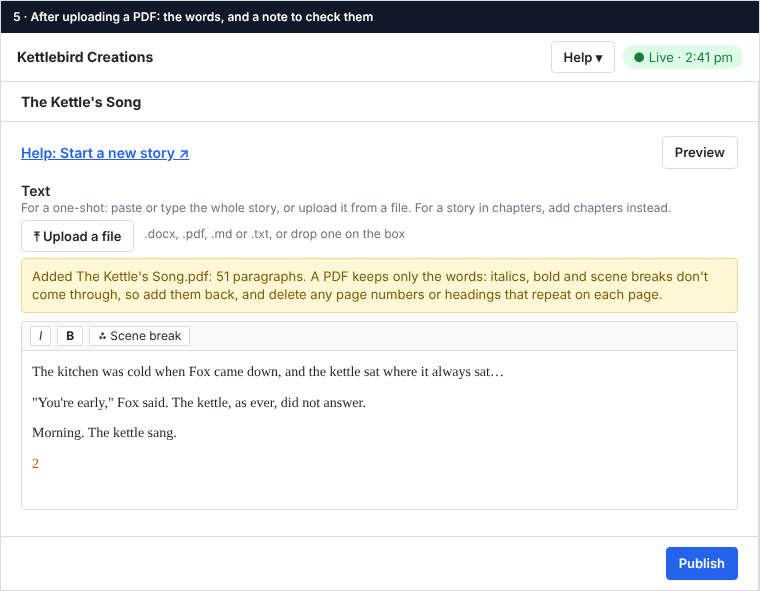
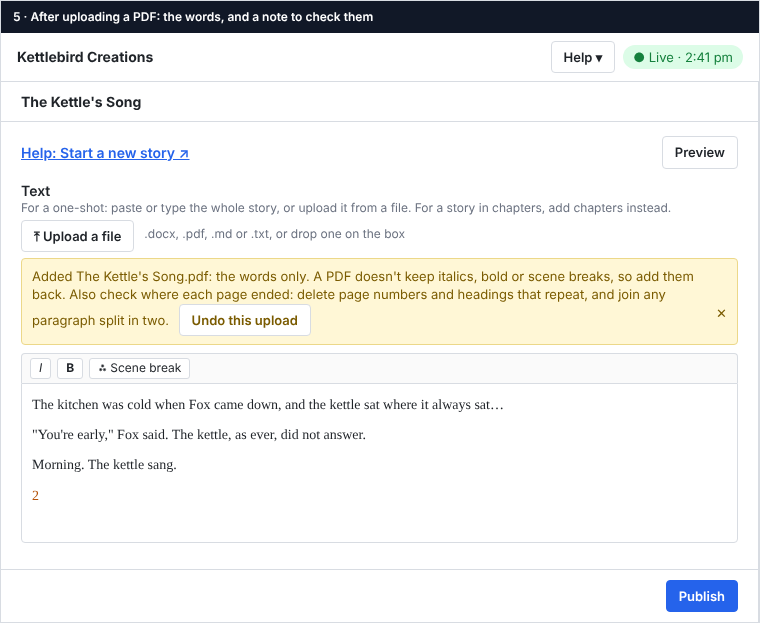
Design: writing from a file, with the walkthrough's findings
Claude-Session: https://claude.ai/code/session_01HWRLNSVAoX5Ni8d8XcwJh1

Changed region(s): [[0.0, 0.0, 0.9987, 0.7614], [0.0303, 0.8528, 0.9684, 0.8832], [0.8776, 0.9137, 0.9684, 0.9746]]

diff --git a/docs/design/mockups/story-import/mockups.html b/docs/design/mockups/story-import/mockups.html
@@ -85,12 +85,13 @@
 </head>
 <body>
 <div class="frame narrow" id="m1"><h6>1 · A one-shot's Text, empty: Upload a file above the box</h6><div class="top"><strong>Kettlebird Creations</strong><span><span class="ebtn">Help ▾</span> &nbsp;<span class="status">● Live · 2:41 pm</span></span></div><div class="wrap"><div class="doc"><div class="hd">The Kettle's Song</div><div class="bd"><div class="tl"><span class="hl">Help: Start a new story ↗</span><span class="ebtn">Preview</span></div><div class="f"><label>Rating<span class="req">Required</span></label><div class="in">◉ Teen</div></div><div class="f"><label>Text</label><p class="h">For a one-shot: paste or type the whole story, or upload it from a file. For a story in chapters, add chapters instead.</p><div class="up"><span class="ebtn">⤒ Upload a file</span><span class="h" style="color:var(--muted);font-size:12px">.docx, .pdf, .md or .txt, or drop one on the box</span></div><div class="tb"><span><em>I</em></span><span><strong>B</strong></span><span>⁂ Scene break</span></div><div class="pt"></div></div></div><div class="bar"><span class="ebtn primary">Publish</span></div></div></div></div>
-<div class="frame narrow" id="m2"><h6>2 · Dragging a file over the box</h6><div class="top"><strong>Kettlebird Creations</strong><span><span class="ebtn">Help ▾</span> &nbsp;<span class="status">● Live · 2:41 pm</span></span></div><div class="wrap"><div class="doc"><div class="hd">The Kettle's Song</div><div class="bd"><div class="tl"><span class="hl">Help: Start a new story ↗</span><span class="ebtn">Preview</span></div><div class="f"><label>Text</label><p class="h">For a one-shot: paste or type the whole story, or upload it from a file. For a story in chapters, add chapters instead.</p><div class="up"><span class="ebtn">⤒ Upload a file</span><span class="h" style="color:var(--muted);font-size:12px">.docx, .pdf, .md or .txt, or drop one on the box</span></div><div class="tb"><span><em>I</em></span><span><strong>B</strong></span><span>⁂ Scene break</span></div><div class="drop">Drop The Kettle's Song.docx to add its text</div></div></div><div class="bar"><span class="ebtn primary">Publish</span></div></div></div></div>
-<div class="frame narrow" id="m3"><h6>3 · After uploading a Word document: the text, and what came through</h6><div class="top"><strong>Kettlebird Creations</strong><span><span class="ebtn">Help ▾</span> &nbsp;<span class="status">● Live · 2:41 pm</span></span></div><div class="wrap"><div class="doc"><div class="hd">The Kettle's Song</div><div class="bd"><div class="tl"><span class="hl">Help: Start a new story ↗</span><span class="ebtn">Preview</span></div><div class="f"><label>Text</label><p class="h">For a one-shot: paste or type the whole story, or upload it from a file. For a story in chapters, add chapters instead.</p><div class="up"><span class="ebtn">⤒ Upload a file</span><span class="h" style="color:var(--muted);font-size:12px">.docx, .pdf, .md or .txt, or drop one on the box</span></div><div class="note" role="status">Added The Kettle's Song.docx: 48 paragraphs and 3 scene breaks. Its italics and bold came through. Read it through, then publish.</div><div class="tb"><span><em>I</em></span><span><strong>B</strong></span><span>⁂ Scene break</span></div><div class="pt"><p>The kitchen was cold when Fox came down, and the kettle sat where it always sat…</p><p>"You're early," Fox said. The kettle, <em>as ever</em>, did not answer.</p><div class="ptbrk">Scene break</div><p><strong>Morning.</strong> The kettle sang.</p></div></div></div><div class="bar"><span class="ebtn primary">Publish</span></div></div></div></div>
-<div class="frame narrow" id="m4"><h6>4 · Uploading into a box that already has text</h6><div class="top"><strong>Kettlebird Creations</strong><span><span class="ebtn">Help ▾</span> &nbsp;<span class="status">● Live · 2:41 pm</span></span></div><div class="wrap"><div class="doc"><div class="hd">The Kettle's Song</div><div class="bd"><div class="tl"><span class="hl">Help: Start a new story ↗</span><span class="ebtn">Preview</span></div><div class="f"><label>Text</label><p class="h">For a one-shot: paste or type the whole story, or upload it from a file. For a story in chapters, add chapters instead.</p><div class="up"><span class="ebtn">⤒ Upload a file</span><span class="h" style="color:var(--muted);font-size:12px">.docx, .pdf, .md or .txt, or drop one on the box</span></div><div class="tb"><span><em>I</em></span><span><strong>B</strong></span><span>⁂ Scene break</span></div><div class="pt"><p>The kitchen was cold when Fox came down, and the kettle sat where it always sat…</p><p>"You're early," Fox said. The kettle, <em>as ever</em>, did not answer.</p><div class="ptbrk">Scene break</div><p><strong>Morning.</strong> The kettle sang.</p></div></div></div><div class="bar"><span class="ebtn primary">Publish</span></div></div><div class="shade"></div><div class="dlg" role="dialog" aria-label="Text"><h3>This text box already has text</h3><p>Add The Long Road.docx after the text that's there, or replace it?</p><div class="row"><span class="ebtn">Cancel</span><span class="ebtn">Add at the end</span><span class="ebtn primary">Replace the text</span></div></div></div></div>
-<div class="frame narrow" id="m5"><h6>5 · After uploading a PDF: the words, and a note to check them</h6><div class="top"><strong>Kettlebird Creations</strong><span><span class="ebtn">Help ▾</span> &nbsp;<span class="status">● Live · 2:41 pm</span></span></div><div class="wrap"><div class="doc"><div class="hd">The Kettle's Song</div><div class="bd"><div class="tl"><span class="hl">Help: Start a new story ↗</span><span class="ebtn">Preview</span></div><div class="f"><label>Text</label><p class="h">For a one-shot: paste or type the whole story, or upload it from a file. For a story in chapters, add chapters instead.</p><div class="up"><span class="ebtn">⤒ Upload a file</span><span class="h" style="color:var(--muted);font-size:12px">.docx, .pdf, .md or .txt, or drop one on the box</span></div><div class="warn" role="status">Added The Kettle's Song.pdf: 51 paragraphs. A PDF keeps only the words: italics, bold and scene breaks don't come through, so add them back, and delete any page numbers or headings that repeat on each page.</div><div class="tb"><span><em>I</em></span><span><strong>B</strong></span><span>⁂ Scene break</span></div><div class="pt"><p>The kitchen was cold when Fox came down, and the kettle sat where it always sat…</p><p>"You're early," Fox said. The kettle, as ever, did not answer.</p><p>Morning. The kettle sang.</p><p style="color:#b45309">2</p></div></div></div><div class="bar"><span class="ebtn primary">Publish</span></div></div></div></div>
+<div class="frame narrow" id="m2"><h6>2 · Dragging a file over the box</h6><div class="top"><strong>Kettlebird Creations</strong><span><span class="ebtn">Help ▾</span> &nbsp;<span class="status">● Live · 2:41 pm</span></span></div><div class="wrap"><div class="doc"><div class="hd">The Kettle's Song</div><div class="bd"><div class="tl"><span class="hl">Help: Start a new story ↗</span><span class="ebtn">Preview</span></div><div class="f"><label>Text</label><p class="h">For a one-shot: paste or type the whole story, or upload it from a file. For a story in chapters, add chapters instead.</p><div class="up"><span class="ebtn">⤒ Upload a file</span><span class="h" style="color:var(--muted);font-size:12px">.docx, .pdf, .md or .txt, or drop one on the box</span></div><div class="tb"><span><em>I</em></span><span><strong>B</strong></span><span>⁂ Scene break</span></div><div class="drop">Drop the file here to add its text</div></div></div><div class="bar"><span class="ebtn primary">Publish</span></div></div></div></div>
+<div class="frame narrow" id="m3"><h6>3 · After uploading a Word document: the text, and what came through</h6><div class="top"><strong>Kettlebird Creations</strong><span><span class="ebtn">Help ▾</span> &nbsp;<span class="status">● Live · 2:41 pm</span></span></div><div class="wrap"><div class="doc"><div class="hd">The Kettle's Song</div><div class="bd"><div class="tl"><span class="hl">Help: Start a new story ↗</span><span class="ebtn">Preview</span></div><div class="f"><label>Text</label><p class="h">For a one-shot: paste or type the whole story, or upload it from a file. For a story in chapters, add chapters instead.</p><div class="up"><span class="ebtn">⤒ Upload a file</span><span class="h" style="color:var(--muted);font-size:12px">.docx, .pdf, .md or .txt, or drop one on the box</span></div><div class="note" role="status">Added The Kettle's Song.docx: 48 paragraphs and 3 scene breaks, with its italics and bold. Left out: 2 pictures. 1 heading came in as a plain paragraph. Read it through, then publish. <span class="ebtn" style="margin-left:6px">Undo this upload</span> <span style="float:right;color:var(--muted)">✕</span></div><div class="tb"><span><em>I</em></span><span><strong>B</strong></span><span>⁂ Scene break</span></div><div class="pt"><p>The kitchen was cold when Fox came down, and the kettle sat where it always sat…</p><p>"You're early," Fox said. The kettle, <em>as ever</em>, did not answer.</p><div class="ptbrk">Scene break</div><p><strong>Morning.</strong> The kettle sang.</p></div></div></div><div class="bar"><span class="ebtn primary">Publish</span></div></div></div></div>
+<div class="frame narrow" id="m4"><h6>4 · Uploading into a box that already has text</h6><div class="top"><strong>Kettlebird Creations</strong><span><span class="ebtn">Help ▾</span> &nbsp;<span class="status">● Live · 2:41 pm</span></span></div><div class="wrap"><div class="doc"><div class="hd">The Kettle's Song</div><div class="bd"><div class="tl"><span class="hl">Help: Start a new story ↗</span><span class="ebtn">Preview</span></div><div class="f"><label>Text</label><p class="h">For a one-shot: paste or type the whole story, or upload it from a file. For a story in chapters, add chapters instead.</p><div class="up"><span class="ebtn">⤒ Upload a file</span><span class="h" style="color:var(--muted);font-size:12px">.docx, .pdf, .md or .txt, or drop one on the box</span></div><div class="tb"><span><em>I</em></span><span><strong>B</strong></span><span>⁂ Scene break</span></div><div class="pt"><p>The kitchen was cold when Fox came down, and the kettle sat where it always sat…</p><p>"You're early," Fox said. The kettle, <em>as ever</em>, did not answer.</p><div class="ptbrk">Scene break</div><p><strong>Morning.</strong> The kettle sang.</p></div></div></div><div class="bar"><span class="ebtn primary">Publish</span></div></div><div class="shade"></div><div class="dlg" role="dialog" aria-label="Text"><h3>This text box already has text</h3><p>It has 48 paragraphs. Add The Kettle's Song (new).docx after them, or replace them with it?</p><div class="row"><span class="ebtn" style="outline:2px solid var(--accent);outline-offset:2px">Cancel</span><span class="ebtn">Add at the end</span><span class="ebtn">Replace the text</span></div></div></div></div>
+<div class="frame narrow" id="m5"><h6>5 · After uploading a PDF: the words, and a note to check them</h6><div class="top"><strong>Kettlebird Creations</strong><span><span class="ebtn">Help ▾</span> &nbsp;<span class="status">● Live · 2:41 pm</span></span></div><div class="wrap"><div class="doc"><div class="hd">The Kettle's Song</div><div class="bd"><div class="tl"><span class="hl">Help: Start a new story ↗</span><span class="ebtn">Preview</span></div><div class="f"><label>Text</label><p class="h">For a one-shot: paste or type the whole story, or upload it from a file. For a story in chapters, add chapters instead.</p><div class="up"><span class="ebtn">⤒ Upload a file</span><span class="h" style="color:var(--muted);font-size:12px">.docx, .pdf, .md or .txt, or drop one on the box</span></div><div class="warn" role="status">Added The Kettle's Song.pdf: the words only. A PDF doesn't keep italics, bold or scene breaks, so add them back. Also check where each page ended: delete page numbers and headings that repeat, and join any paragraph split in two. <span class="ebtn" style="margin-left:6px">Undo this upload</span> <span style="float:right;color:#7a5b00">✕</span></div><div class="tb"><span><em>I</em></span><span><strong>B</strong></span><span>⁂ Scene break</span></div><div class="pt"><p>The kitchen was cold when Fox came down, and the kettle sat where it always sat…</p><p>"You're early," Fox said. The kettle, as ever, did not answer.</p><p>Morning. The kettle sang.</p><p style="color:#b45309">2</p></div></div></div><div class="bar"><span class="ebtn primary">Publish</span></div></div></div></div>
 <div class="frame narrow" id="m6"><h6>6 · A chapter's Text: the same button</h6><div class="top"><strong>Kettlebird Creations</strong><span><span class="ebtn">Help ▾</span> &nbsp;<span class="status">● Live · 2:41 pm</span></span></div><div class="wrap"><div class="doc"><div class="hd">The Long Road · Chapter 3</div><div class="bd"><div class="tl"><span class="hl">Help: Add a chapter to a story ↗</span><span class="ebtn">Preview</span></div><div class="f"><label>Chapter<span class="req">Required</span></label><div class="in">3</div></div><div class="f"><label>Text<span class="req">Required</span></label><p class="h">Paste or type the chapter, or upload it from a file.</p><div class="up"><span class="ebtn">⤒ Upload a file</span><span class="h" style="color:var(--muted);font-size:12px">.docx, .pdf, .md or .txt, or drop one on the box</span></div><div class="tb"><span><em>I</em></span><span><strong>B</strong></span><span>⁂ Scene break</span></div><div class="pt"></div></div></div><div class="bar"><span class="ebtn primary">Publish</span></div></div></div></div>
-<div class="frame narrow" id="m7"><h6>7 · What it says when a file can't be added (one at a time, above the box)</h6><div class="top"><strong>Kettlebird Creations</strong><span><span class="ebtn">Help ▾</span> &nbsp;<span class="status">● Live · 2:41 pm</span></span></div><div class="wrap"><div class="doc"><div class="hd">The Kettle's Song</div><div class="bd"><div class="tl"><span class="hl">Help: Start a new story ↗</span><span class="ebtn">Preview</span></div><div class="f"><label>Text</label><p class="h">For a one-shot: paste or type the whole story, or upload it from a file. For a story in chapters, add chapters instead.</p><div class="up"><span class="ebtn">⤒ Upload a file</span><span class="h" style="color:var(--muted);font-size:12px">.docx, .pdf, .md or .txt, or drop one on the box</span></div><div class="err" role="alert">The Kettle's Song.doc can't be read here. Open it in Word or Google Docs, save or download it as .docx, and upload that.</div><div class="err" role="alert">The Kettle's Song.pdf has no words in it, only pictures of pages (it was probably scanned). Upload the document it was made from instead.</div><div class="err" role="alert">The Kettle's Song.pdf is locked with a password. Upload an unlocked copy, or the document it was made from.</div><div class="err" role="alert">Draft.docx is empty, so nothing was added.</div><div class="err" role="alert">The Kettle's Song.docx is over 20 MB, too big to read here. If it has pictures in it, save a copy without them.</div><div class="err" role="alert">Something went wrong reading Notes.md, and nothing was added. Try again, or paste the text instead.</div><div class="tb"><span><em>I</em></span><span><strong>B</strong></span><span>⁂ Scene break</span></div><div class="pt"></div></div></div><div class="bar"><span class="ebtn primary">Publish</span></div></div></div></div>
+<div class="frame narrow" id="m7"><h6>7 · What it says when a file can't be added (one at a time, above the box; each replaces the last)</h6><div class="top"><strong>Kettlebird Creations</strong><span><span class="ebtn">Help ▾</span> &nbsp;<span class="status">● Live · 2:41 pm</span></span></div><div class="wrap"><div class="doc"><div class="hd">The Kettle's Song</div><div class="bd"><div class="tl"><span class="hl">Help: Start a new story ↗</span><span class="ebtn">Preview</span></div><div class="f"><label>Text</label><p class="h">For a one-shot: paste or type the whole story, or upload it from a file. For a story in chapters, add chapters instead.</p><div class="up"><span class="ebtn">⤒ Upload a file</span><span class="h" style="color:var(--muted);font-size:12px">.docx, .pdf, .md or .txt, or drop one on the box</span></div><div class="err" role="alert">The Kettle's Song.doc is an older Word file, which can't be read here. Open it in Word or Google Docs, save or download it as .docx, and upload that.</div><div class="err" role="alert">The Kettle's Song.gdoc is a link to a Google Doc, not the document. In Google Docs, choose File, Download, Microsoft Word (.docx), and upload that.</div><div class="err" role="alert">The Kettle's Song.pages can't be read here. In Pages, choose File, Export To, Word, and upload that.</div><div class="err" role="alert">The Kettle's Song.epub can't be read here. Open it, copy the text, and paste it into the box.</div><div class="err" role="alert">Fox sketch.png is a picture, not writing.</div><div class="err" role="alert">The Kettle's Song.pdf has no words in it, only pictures of pages (it was probably scanned). Upload the document it was made from instead.</div><div class="err" role="alert">The Kettle's Song.pdf is locked with a password. Upload an unlocked copy, or the document it was made from.</div><div class="err" role="alert">Draft.docx has no words in it, so nothing was added.</div><div class="err" role="alert">The Kettle's Song.docx is over 20 MB, too big to read here. Save a copy without its pictures, or upload the chapter on its own.</div><div class="err" role="alert">Something went wrong reading Notes.md, and nothing was added. Try again, or paste the text instead.</div><div class="tb"><span><em>I</em></span><span><strong>B</strong></span><span>⁂ Scene break</span></div><div class="pt"></div></div></div><div class="bar"><span class="ebtn primary">Publish</span></div></div></div></div>
 
+<div class="frame narrow" id="m8"><h6>8 · Reading a long file</h6><div class="top"><strong>Kettlebird Creations</strong><span><span class="ebtn">Help ▾</span> &nbsp;<span class="status">● Live · 2:41 pm</span></span></div><div class="wrap"><div class="doc"><div class="hd">The Kettle's Song</div><div class="bd"><div class="tl"><span class="hl">Help: Start a new story ↗</span><span class="ebtn">Preview</span></div><div class="f"><label>Text</label><p class="h">For a one-shot: paste or type the whole story, or upload it from a file. For a story in chapters, add chapters instead.</p><div class="up"><span class="ebtn" style="opacity:.5">⤒ Upload a file</span><span class="h" style="color:var(--muted);font-size:12px">.docx, .pdf, .md or .txt, or drop one on the box</span></div><div class="note" role="status">Reading The Kettle's Song.docx…</div><div class="tb"><span><em>I</em></span><span><strong>B</strong></span><span>⁂ Scene break</span></div><div class="pt" style="opacity:.6"></div></div></div><div class="bar"><span class="ebtn primary">Publish</span></div></div></div></div>
 </body>
 </html>

diff --git a/docs/design/story-import.md b/docs/design/story-import.md
@@ -17,42 +17,53 @@ style of the story reader's editor mock-ups) and render.mjs. -->
 
 ## Personas
 
-- persona-artist: Star writes in documents (Word, Google Docs, and plain text or Markdown files), and today copies each story or chapter and pastes it into **Text** (design-story-reader, "Flow: Star"). A long story is slow to select and copy, and a copy can miss the end. Uploading the file puts the whole of it in at once, by the same rules as a paste.
+- persona-artist: Star writes in documents (the story names Google Docs and Word; plain text and Markdown files are the lead's request), and today copies each story or chapter and pastes it into **Text** (design-story-reader, "Flow: Star"). A long story is slow to select and copy, and a copy can miss the end. Uploading the file puts the whole of it in at once, by the same rules as a paste where the file allows.
 
 ## The change
 
 This amends design-story-reader, "What Star enters" and "Flow: Star": **Text** on a one-shot and on a chapter can be filled from a file as well as by pasting or typing.
 
 **Upload a file** (mock-ups 1, 2 and 6):
-- Above each **Text** box, a button, **Upload a file**, with ".docx, .pdf, .md or .txt, or drop one on the box" beside it. Dropping a file on the box does the same; while one is dragged over, the box says "Drop The Kettle's Song.docx to add its text" (mock-up 2).
+- Above each **Text** box, a button, **Upload a file**, with ".docx, .pdf, .md or .txt, or drop one on the box" beside it. Dropping a file on the box does the same; while one is dragged over, the box says "Drop the file here to add its text" (mock-up 2; a browser doesn't give a dragged file's name until it's dropped). The guide says to drop it on the box: dropped anywhere else, the browser may open it instead.
 - **Text**'s help text gains "or upload it from a file": "For a one-shot: paste or type the whole story, or upload it from a file. For a story in chapters, add chapters instead." On a chapter: "Paste or type the chapter, or upload it from a file."
-- On a story with chapters, where **Text** shows only its note (design-story-reader, mock-up 7), there's no button: chapters are where the text goes.
-- One file at a time; one file fills one **Text** box. A whole book in one file goes in chapter by chapter, as pasting does today (Decisions at review, 1).
+- On a story with chapters, where **Text** shows its note (design-story-reader, mock-up 7), there's no button: chapters are where the text goes. Text left in such a story stays visible, as now, to move into a chapter.
+- One file at a time; one file fills one **Text** box. A file can't be selected from as a paste can, so for a whole book in one file the guide gives a recipe: upload it into a one-shot's **Text**, choose **Add chapter** (which moves the text into Chapter 1), then cut each later chapter out and paste it into a new chapter. The book's own title and chapter headings come in as plain paragraphs, to delete (Decisions at review, 1, would make this a split instead).
+- While a file is read, the note says "Reading The Kettle's Song.docx…" and the button waits; nothing else can be uploaded into that box until it's done (mock-up 8).
 
 **What comes through** is what a paste brings, by the same rules (design-story-reader, "What Star enters"; Star's guide, "Paste your text"):
-- **.docx** (Word, and Google Docs' File, Download, Microsoft Word): paragraphs, *italics* and **bold**; a horizontal line, a line of only symbols such as `* * *`, or a gap of two or more empty lines becomes a **Scene break**. Headings and tables come through as plain paragraphs of their text; pictures, comments and tracked changes' deleted text are left out.
-- **.md** (Markdown): paragraphs, `*italics*` or `_italics_`, `**bold**`; a `---`, `***` or `* * *` line becomes a scene break. Headings, lists and quotes come through as plain paragraphs of their text; links keep their words only.
-- **.txt**: each line, or each paragraph between empty lines, becomes a paragraph; scene break lines and gaps as above. No italics or bold: plain text has none.
-- **.pdf**: the words only, in paragraphs worked out from the gaps between lines. Italics, bold and scene breaks don't come through, and page numbers or headings repeated on each page may come in with the text (mock-up 5). Words broken across lines with a hyphen are joined.
+- A **scene break** comes from what the paste rules already know (`isSceneBreakLine` in `lib/stories.ts`): a line of three or more of `* ~ - # = • ·` (such as `* * *`, `***`, `---`, `~~~`), a line of only `~`, `#` or `⁂`, or a gap of two or more empty paragraphs. A document double-spaced with empty paragraphs gets a scene break between every paragraph, as a paste does; the note's count shows it.
+- **.docx** (Word, and Google Docs' File, Download, Microsoft Word): paragraphs, *italics* and **bold**, and scene breaks as above. Word's drawn horizontal line (Insert, Horizontal Line, or a paragraph with only a bottom border) is turned into a scene break by the site's own rule, since the Word reader leaves it out; the spec proves it with files from Word and from Google Docs. Line breaks within a paragraph (Shift+Enter, in poems and letters) are kept, as when pasted. Headings and tables come in as plain paragraphs of their text; footnotes come at the end as plain paragraphs; pictures, text boxes and comments are left out, and the note counts what was. Tracked changes come in as if accepted, and the note says so (see below).
+- **.md** (Markdown) is read as Markdown: paragraphs, `*italics*` or `_italics_`, `**bold**`, and scene break lines with an empty line before them (a `---` straight under a line of text makes that line a Markdown heading, which comes in as a plain paragraph). Empty lines don't add up in Markdown, so gaps don't make scene breaks. Headings come in as plain paragraphs; a line starting with `- ` or `> ` is a Markdown list or quote, and loses its `- ` or `>`; links keep their words only.
+- **.txt**: when the file has an empty line between its paragraphs, the lines of each paragraph are joined into one (so a file wrapped at a fixed width reads as paragraphs); otherwise each line is a paragraph, as a paste of plain text is. Scene breaks as above. No italics or bold: plain text has none.
+- **.txt and .md** are read as UTF-8, or as Windows' own encoding when they aren't UTF-8, so curly quotes and dashes from older Notepad files come through.
+- **.pdf**: the words only, in paragraphs worked out from the gaps between lines. Italics, bold and scene breaks don't come through; page numbers and headings repeated on each page come in with the text, and a paragraph that runs over a page is split in two (mock-up 5). A word broken across lines keeps its hyphen ("beau-tiful"), since joining would also join real compounds ("well-known"); the note says to check.
 
 **After a file is added** (mock-ups 3 and 5):
-- The text appears in the box, and a note above it says what came in: "Added The Kettle's Song.docx: 48 paragraphs and 3 scene breaks. Its italics and bold came through. Read it through, then publish."
-- For a PDF the note says what to check: "Added The Kettle's Song.pdf: 51 paragraphs. A PDF keeps only the words: italics, bold and scene breaks don't come through, so add them back, and delete any page numbers or headings that repeat on each page."
-- For a .txt: "Added Notes.txt: 12 paragraphs and 1 scene break." (plain text has no italics to mention).
-- The note stays until the text is edited or the item is published. Nothing goes live until Star publishes, as with a paste; **Preview** shows it first.
+- The text appears in the box, focus goes to the box at the end of the added text, and a note above it says what came in and what didn't:
+  - .docx: "Added The Kettle's Song.docx: 48 paragraphs and 3 scene breaks, with its italics and bold. Left out: 2 pictures. 1 heading came in as a plain paragraph. Read it through, then publish." The second and third sentences name only what the file had (pictures, text boxes, comments; headings, tables, footnotes). With tracked changes or Google Docs suggestions: "It had tracked changes, and they came in as if accepted: check them, or accept or reject them in the document first and upload it again."
+  - .md: "Added Notes.md: 12 paragraphs and 1 scene break, with its italics and bold."
+  - .txt: "Added Notes.txt: 12 paragraphs and 1 scene break."
+  - .pdf: "Added The Kettle's Song.pdf: the words only. A PDF doesn't keep italics, bold or scene breaks, so add them back. Also check where each page ended: delete page numbers and headings that repeat, and join any paragraph split in two." (no count, which would include page numbers and split halves.)
+- The note has **Undo this upload**, which puts the box back as it was before the file came in, and ✕ to close it. It stays until it's closed or the item is published, so a PDF's checklist stays while Star works through it; **Undo this upload** goes once the text has been edited after the upload. Nothing goes live until Star publishes, as with a paste; **Preview** shows it first.
 
-**When the box already has text** (mock-up 4): a dialog, "This text box already has text. Add The Long Road.docx after the text that's there, or replace it?", with **Cancel**, **Add at the end** and **Replace the text** (focused first, being what an upload is usually for, and undoable). An empty box is filled with no question.
+**When the box already has text** (mock-up 4): a dialog, "This text box already has text. It has 48 paragraphs. Add The Kettle's Song (new).docx after them, or replace them with it?", with **Cancel** (focused first, so Enter by habit changes nothing), **Add at the end** and **Replace the text**. **Add at the end** adds no scene break between the old and new text; Star adds one if wanted. The note counts only what the file added. A box with nothing but empty paragraphs counts as empty, and is filled with no question.
 
-**Undo**: the editor's own undo (Ctrl+Z or ⌘Z, or the document's history) takes the added text back out, as for a paste.
+**Undo**: **Undo this upload** in the note, or the editor's own undo (Ctrl+Z or ⌘Z) with focus in the box, takes the upload back out as one step; the document's history has it too.
 
-**When a file can't be added** (mock-up 7), a message above the box says why and what to do, and the box is left as it was:
-- another kind of file (an older Word .doc, Pages, .rtf, .odt, a picture): "The Kettle's Song.doc can't be read here. Open it in Word or Google Docs, save or download it as .docx, and upload that."
+**When a file can't be added** (mock-up 7), a message above the box says why and what to do, and the box is left as it was. A new message replaces the last one:
+- an older Word file (.doc), .rtf or .odt: "The Kettle's Song.doc is an older Word file, which can't be read here. Open it in Word or Google Docs, save or download it as .docx, and upload that." (.rtf and .odt: "…is a … file, which can't be read here…", the same steps.)
+- a Google Drive shortcut (.gdoc): "The Kettle's Song.gdoc is a link to a Google Doc, not the document. In Google Docs, choose File, Download, Microsoft Word (.docx), and upload that."
+- a Pages file: "The Kettle's Song.pages can't be read here. In Pages, choose File, Export To, Word, and upload that."
+- a web page or e-book (.html, .epub, as AO3 downloads are): "The Kettle's Song.epub can't be read here. Open it, copy the text, and paste it into the box."
+- a picture: "Fox sketch.png is a picture, not writing."
+- any other kind of file: "The Kettle's Song.xyz can't be read here. Upload a .docx, .pdf, .md or .txt file, or paste the text."
 - a PDF of scanned pages, with no words in it: "The Kettle's Song.pdf has no words in it, only pictures of pages (it was probably scanned). Upload the document it was made from instead."
 - a locked PDF: "The Kettle's Song.pdf is locked with a password. Upload an unlocked copy, or the document it was made from."
-- an empty file, or one with only pictures: "Draft.docx is empty, so nothing was added."
-- a file over 20 MB: "The Kettle's Song.docx is over 20 MB, too big to read here. If it has pictures in it, save a copy without them."
+- a file with no words: "Draft.docx has no words in it, so nothing was added."
+- a file over 20 MB: "The Kettle's Song.docx is over 20 MB, too big to read here. Save a copy without its pictures, or upload the chapter on its own." (for a PDF: "…too big to read here. Upload the document it was made from, or the chapter on its own.")
 - anything else going wrong: "Something went wrong reading Notes.md, and nothing was added. Try again, or paste the text instead."
-- more than one file dropped at once: only the first is added, and the note says "Only one file at a time: added The Kettle's Song.docx."
+- more than one file dropped at once: only the first is added, and the note begins "Only one file at a time: added The Kettle's Song.docx."
+- The file chooser lists .docx, .pdf, .md and .txt files; the messages above mostly come from dropped files.
 
 **Where the file goes**: it's read in Star's browser and only its text is kept, in **Text**, as a paste is. The file itself isn't uploaded or stored anywhere.
 
@@ -60,10 +71,10 @@ This amends design-story-reader, "What Star enters" and "Flow: Star": **Text** o
 
 | # | Where | After |
 |---|---|---|
-| 1 | A story's and a chapter's **Text** (`sanity-studio/components/StoryTextInput.tsx`) | **Upload a file**, dropping a file on the box, the replace or add dialog, the notes and messages above the box. |
+| 1 | A story's and a chapter's **Text** (`sanity-studio/components/StoryTextInput.tsx`) | **Upload a file**, dropping a file on the box, reading, the replace or add dialog, the notes (a status message, with **Undo this upload** and ✕) and messages (an alert) above the box. Today the input only handles a paste; the spec confirms how Sanity Studio's editor takes text from outside it as one undo step. |
 | 2 | The paste rules (`sanity-studio/lib/story-paste.ts`, `lib/stories.ts`) | Each kind of file turned into the HTML the paste rules already read: .docx by a Word reader, .md by a Markdown reader, .txt as a paste of plain text is, .pdf by a PDF reader's words and line gaps; then the same clean-up as a paste. The readers load only when a file is chosen, so the editor isn't slower to open. |
 | 3 | **Text**'s help text (`sanity-studio/lib/stories.ts` or the schema) | "or upload it from a file". |
-| 4 | Star's guide `publishing-stories.md` | "Upload a file" beside "Paste your text" (For the guide). |
+| 4 | Star's guide `publishing-stories.md` | "Upload a file", and the passages that say pasting is the only way (For the guide). |
 
 ## Mock-ups
 
@@ -72,12 +83,13 @@ Low-fidelity, in the style of the story reader's editor mock-ups. Source: `mocku
 | # | What it shows | File |
 |---|---|---|
 | 1 | A one-shot's **Text**, empty, with **Upload a file** above the box | `mockups/story-import/1-upload-button.png` |
-| 2 | A file dragged over the box | `mockups/story-import/2-drop.png` |
-| 3 | After a Word document: the text, and the note saying what came through | `mockups/story-import/3-after-docx.png` |
-| 4 | Uploading into a box that already has text: **Cancel**, **Add at the end**, **Replace the text** | `mockups/story-import/4-replace-or-add.png` |
+| 2 | A file dragged over the box: "Drop the file here to add its text" | `mockups/story-import/2-drop.png` |
+| 3 | After a Word document: the text, and the note saying what came in and what was left out, with **Undo this upload** | `mockups/story-import/3-after-docx.png` |
+| 4 | Uploading into a box that already has text: how much is there; **Cancel** (focused), **Add at the end**, **Replace the text** | `mockups/story-import/4-replace-or-add.png` |
 | 5 | After a PDF: the words, and the note saying what to check | `mockups/story-import/5-after-pdf.png` |
 | 6 | A chapter's **Text**, with the same button | `mockups/story-import/6-chapter.png` |
-| 7 | The messages when a file can't be added | `mockups/story-import/7-errors.png` |
+| 7 | The messages when a file can't be added, each for its kind of file | `mockups/story-import/7-errors.png` |
+| 8 | Reading a long file | `mockups/story-import/8-reading.png` |
 
 ## States and errors
 
@@ -87,36 +99,46 @@ Low-fidelity, in the style of the story reader's editor mock-ups. Source: `mocku
 | **Text** with text in it | The dialog: **Add at the end**, **Replace the text**, or **Cancel** (nothing changes). |
 | A story with chapters | No **Upload a file** on the story's **Text**; each chapter has its own. |
 | .docx, .md, .txt | Paragraphs and scene breaks; italics and bold from .docx and .md. |
-| .pdf with words | The words in paragraphs; a note to add back italics, bold and scene breaks. |
-| .pdf of scanned pages, a locked .pdf, another kind of file, an empty file, over 20 MB, an error | A message above the box saying why and what to do; the box unchanged. |
+| .pdf with words | The words in paragraphs; a note to add back italics, bold and scene breaks, and to check page ends. |
+| A .docx with tracked changes | In as if accepted; the note says so. |
+| A file being read | "Reading …"; the button waits. |
+| .pdf of scanned pages, a locked .pdf, another kind of file, a file with no words, over 20 MB, an error | A message above the box saying why and what to do, for that kind of file; the box unchanged. |
 | More than one file dropped | The first is added; the note says only one at a time. |
-| A mistake | The editor's undo takes it back out. |
+| A mistake | **Undo this upload**, or Ctrl+Z in the box, takes it back out. |
 
 ## Accessibility
 
 - **Upload a file** is a button reached with Tab and opened with Enter or Space; it opens the computer's own file chooser, so it works with a keyboard and a screen reader. Dropping a file is an extra, never the only way.
 - The note after a file is added is a status message, read out by a screen reader; an error is an alert.
-- The dialog is a modal dialog with its question as its name; focus starts on **Replace the text**, Escape is **Cancel**, and focus returns to **Upload a file** when it closes.
+- The dialog is a modal dialog with its question as its name; focus starts on **Cancel**, Escape is **Cancel**; after **Cancel** focus returns to **Upload a file**, and after adding or replacing it goes into the box, so Ctrl+Z works there.
+- "Reading …" is a status message too, and the button is disabled, not hidden, while a file is read.
 - The added text is ordinary text in the box, editable as a paste is.
 
 ## For the guide
 
-Star's guide `publishing-stories.md`, after "Paste your text", a section "Upload a file":
-- choose **Upload a file** above **Text**, or drop a file on the box; .docx, .pdf, .md or .txt;
-- from Google Docs: File, Download, Microsoft Word (.docx), then upload that;
-- what comes through from each kind of file, and that PDFs keep only the words;
-- adding to a box that already has text: **Add at the end** or **Replace the text**;
-- undo, and the messages when a file can't be added;
-- that the file itself isn't kept, only its text;
-- one file per text box, so a book in one file goes in chapter by chapter (unless the lead decides otherwise).
+Star's guide `publishing-stories.md`:
+- a new section, "Upload a file", after "Paste your text":
+  - choose **Upload a file** above **Text**, or drop a file on the box (on the box: elsewhere the browser may open it); .docx, .pdf, .md or .txt;
+  - from Google Docs: File, Download, Microsoft Word (.docx), then upload that from your Downloads; .docx keeps the most;
+  - what comes through from each kind of file, and that PDFs keep only the words and need checking at page ends;
+  - before uploading a Word document with tracked changes or comments, accept or reject them;
+  - a document double-spaced with empty paragraphs gets scene breaks between them; use Word's line spacing instead, or delete the extra breaks;
+  - adding to a box that already has text: **Add at the end** or **Replace the text**; **Undo this upload**;
+  - the messages when a file can't be added;
+  - that the file itself isn't kept, only its text;
+  - a whole book in one file: upload it into a one-shot, choose **Add chapter**, then cut each later chapter into its own chapter; delete the title and chapter headings that came in as text.
+- The passages that say pasting is the only way: the intro ("You put a story up by pasting it in"), "Start a new story" step 5, "Add a chapter to a story" step 3, and the "If something goes wrong" rows "Add the chapter's text." and "Italics are missing after pasting": "paste or upload".
+- Its `summary:` ("Starting a story, pasting its text, chapters, and ratings.") becomes "…pasting or uploading its text…". It's an existing guide, so the help menu and the items' help links need nothing new (the standing decision of 2026-11-03 is for new guides).
 
 ## For the spec to check
 
 - **Upload a file** on a one-shot's and a chapter's **Text**, not on a story with chapters; the help texts.
-- Each kind of file, from sample files kept with the tests: a .docx from Word and one from Google Docs (italics, bold, a horizontal line, `* * *`, two empty lines, a heading, a table, a picture, a comment, a tracked deletion); a .md (emphasis both ways, bold, `---`, headings, a list, a link); a .txt (lines, empty lines, `* * *`); a .pdf with words (two pages, page numbers, a hyphenated word); the block count and the note.
+- Each kind of file, from sample files kept with the tests: a .docx from Word and one from Google Docs (italics, bold, Word's horizontal line both ways, `* * *`, two empty paragraphs, a Shift+Enter line break, a heading, a table, a footnote, a picture, a text box, a comment, a tracked insertion and deletion, a Google Docs suggestion); a .md (emphasis both ways, bold, `---` after an empty line and straight under text, `~~~`, headings, a `- ` and a `> ` line, a link); a .txt wrapped with empty lines between paragraphs, and one without; a .txt in Windows' own encoding with curly quotes; a .pdf with words (two pages, a paragraph over the page break, page numbers, a hyphenated word); each note's wording and counts.
 - The same text from a .docx and from pasting the same document give the same blocks.
-- The dialog: Add at the end keeps the text and adds after it; Replace replaces it; Cancel and Escape change nothing; focus.
-- Each message: a .doc, a scanned .pdf, a locked .pdf, an empty .docx, a file over 20 MB, a broken file; the box unchanged.
+- The dialog: its count; Add at the end keeps the text and adds after it, with no scene break added; Replace replaces it; Cancel and Escape change nothing; focus on Cancel first, then into the box or back to the button; a box of only empty paragraphs is filled with no dialog.
+- **Undo this upload** and Ctrl+Z each take an upload out in one step; the note stays until closed or published.
+- Reading: the status, and a second file not accepted until the first is done.
+- Each message: a .doc, .rtf, .odt, .gdoc, .pages, .html, .epub, a picture, another kind; a scanned .pdf, a locked .pdf, a .docx with no words, a file over 20 MB, a broken file; the box unchanged; a new message replacing the last.
 - More than one file dropped.
 - The readers load only when a file is chosen (the editor's first load doesn't fetch them).
 - The file isn't stored: no asset is created.
@@ -124,10 +146,29 @@ Star's guide `publishing-stories.md`, after "Paste your text", a section "Upload
 ## Decisions at review
 
 For the lead:
-1. **A book in one file**: one file fills one text box, as proposed, so a story in chapters is uploaded chapter by chapter; or should a file with chapter headings ("Chapter 1", "Chapter 2: Over the Ridge") be split into the story's chapters, made for Star?
-2. **Text already in the box**: ask, as proposed (Add at the end or Replace); or always replace?
-3. **PDFs**: the words only, with a note, as proposed; or leave PDFs out, so every upload keeps italics and scene breaks, and Star saves PDFs' source documents instead?
+1. **A book in one file**: one file fills one text box, with the guide's recipe (upload into a one-shot, **Add chapter**, then cut chapter by chapter), as proposed; or should a file with chapter headings ("Chapter 1", "Chapter 2: Over the Ridge") be split into the story's chapters, made for Star? The walkthrough thinks one file per book is Star's likeliest case, which favours splitting.
+2. **Text already in the box**: ask, as proposed (Add at the end or Replace, with Cancel focused); or always replace?
+3. **PDFs**: the words only, with a note, as proposed; or leave PDFs out, so every upload keeps italics and scene breaks? Star always has the document a PDF was made from, except for PDFs downloaded from AO3 (offline for now), which also repeat AO3's title on every page.
 
 ## Persona walkthrough
 
-Not yet run; its findings will be folded in here before review.
+A walkthrough for persona-artist, and persona-fan through the published text (2026-11-07), read the design against the story reader's design, Star's guide and the paste code. Nothing stopped Star on the main path (a .docx into an empty box), but it found three blocking problems, twelve misleading ones and six slower ones. Addressed above:
+- **Blocking:**
+  - a dragged file's name can't be shown before it's dropped (the box now says "Drop the file here");
+  - Word's horizontal lines are likely dropped by a Word reader (now turned into scene breaks by the site's own rule, proved in the spec);
+  - undo wouldn't reach the box with focus on the button (focus now goes into the box, and the note has **Undo this upload**).
+- **Misleading:**
+  - the .txt rule contradicted the paste rule (now one rule, with wrapped files joined);
+  - Markdown differs from a paste (now said: scene break lines need an empty line before them, gaps don't count, `- ` and `>` lines lose their marker, and the real scene break rule is given);
+  - tracked changes came in silently as accepted (now in the note and the guide);
+  - pictures and other left-out parts were silent (now counted in the note);
+  - the PDF checklist vanished at the first edit (the note now stays until closed or published);
+  - PDFs split paragraphs at page breaks and joining hyphens joins real compounds (now said, and hyphens kept);
+  - one message for every unreadable file (now one for each kind, including Google Drive shortcuts, Pages and AO3's downloads);
+  - "empty" and "without pictures" wordings, and text encodings (fixed);
+  - a book in one file was harder to upload than to paste (now a guide recipe, and Decision 1);
+  - the dialog's default destroyed text on Enter (Cancel now first, with a count);
+  - no reading state (now mock-up 8);
+  - the guide needed more than one new section (now listed);
+  - the persona didn't support the file types (softened).
+- **Slower:** a mock-up's file name; one message at a time; the notes' roles; double-spaced documents; Google Docs' download steps (all in the design or the guide).
